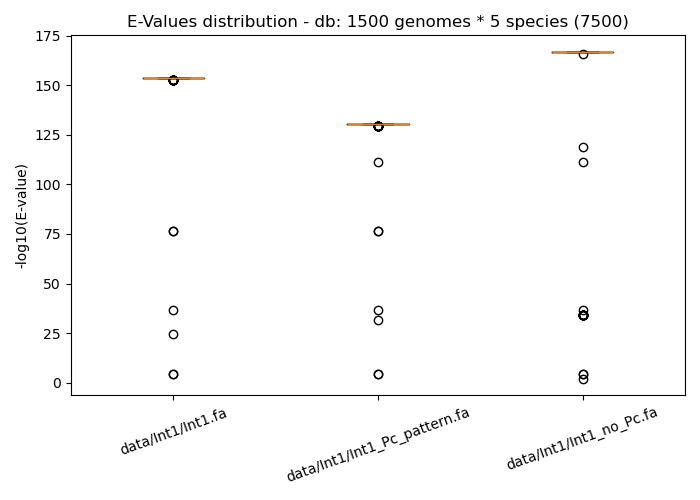
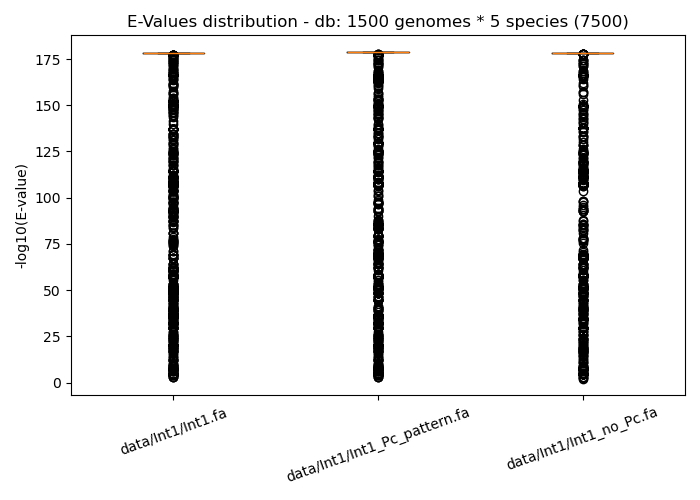
changes

diff --git a/scripts/optimization.py b/scripts/optimization.py
@@ -10,7 +10,7 @@ import matplotlib.pyplot as plt
 
 # --------Definition of functions
 #------------------------ Function to run blastn
-def run_blastn(query, output, db, max_target_evalue_threshold = 10):
+def run_blastn(query, output, db, max_target, evalue_threshold = 10):
     # FIXME FALTA AÑADIR COSAS DE EVALUES YA ARGS ADDED
     """
     Executes the blastn command with the specified query, output file, and database.
@@ -32,7 +32,7 @@ def run_blastn(query, output, db, max_target_evalue_threshold = 10):
     blast_cmd = ["blastn", "-query", query, # Query fasta file
                  "-db", db, # Blast database
                  "-out", output, 
-                 "-max_target_seqs", 
+                 "-max_target_seqs", str(max_target), # Max number of aligned seqs to keep
                  "-evalue", str(evalue_threshold),
                  "-outfmt", "6"] # Output format 6 (tabular)
     start = time.time() # Start time to measure execution time
@@ -235,19 +235,22 @@ if __name__ == "__main__":
                    "data/Int1/Int1_no_Pc.fa"]
     all_results = {}
     all_times = {}
+    num_genomes_each = 1000
     for each_query in fasta_files:
         name = os.path.basename(each_query)
 
         each_result, each_time = run_blastn(query = each_query, 
-                                 output = f"results/1500genomes/blast_{name}.tsv",
-                                 db = "data/1500genomes/db/db")
+                                 output = f"results/{str(num_genomes_each)}genomes/blast_{name}.tsv",
+                                 db = f"data/{str(num_genomes_each)}genomes/db/db",
+                                 max_target=num_genomes_each * 5 * 5) # max num of seqs to keep: size of db * 5
         
         all_results[each_query] = each_result
         all_times[each_query] = each_time
 
 
     dfs, evalues, bitscore, labels = process_tsv(all_results)
-    outdir = "results/plots/1500genomes"
-    plot_evalue(evalues, labels, title = "E-Values distribution - db: 1500 genomes * 5 species (7500)", outdir = outdir)
-    plot_bitscore(bitscore, labels, title = "BitScore distribution - db: 1500 genomes * 5 species (7500)", outdir = outdir)
-    plot_evalue_thresholds(dfs, all_times, title = "E-Values thresholds - db: 1500 genomes * 5 species (7500)", outdir = outdir)
+    outdir = f"results/plots/{str(num_genomes_each)}genomes"
+    general_title = f"- db: {str(num_genomes_each)} genomes * 5 species ({str(num_genomes_each*5)})"
+    plot_evalue(evalues, labels, title = f"E-Values distribution {general_title}", outdir = outdir)
+    plot_bitscore(bitscore, labels, title = f"BitScore distribution {general_title}", outdir = outdir)
+    plot_evalue_thresholds(dfs, all_times, title = f"E-Values thresholds {general_title}", outdir = outdir)

diff --git a/scripts/generate_db.py b/scripts/generate_db.py
@@ -110,22 +110,22 @@ if __name__ == "__main__":
     flags = datasets_flags(assembly_level="complete,chromosome,contig",
                            exclude_atypical=True,
                            mag=False)
-
+    n_genomes = 1000
     # species to download
     names = {"Ecoli" : "Escherichia coli", 
              "Klebsiella" : "Klebsiella pneumoniae",
              "Pseudomonas" : "Pseudomonas aeruginosa",
              "Acinetobacter" : "Acinetobacter baumannii",
              "Enterobacter" : "Enterobacter"}
-    names2 = {"Acinetobacter" : "Acinetobacter baumannii"}
+
         
-    download_species_genomes(species = names2, 
-                   outdir = "data/1500genomes", 
-                   target_num = 1500, 
+    download_species_genomes(species = names, 
+                   outdir = "data/1000genomes", 
+                   target_num = n_genomes, 
                    flags = flags)
 
     
-    generate_multifasta(path_to_genomes = "data/1500genomes/*/*/ncbi_dataset/data/*/*.fna",
-                        outfile = "data/1500genomes/multifasta_genomes.fasta")
-    generate_db(multifasta = "data/1500genomes/multifasta_genomes.fasta",
-                out_db = "data/1500genomes/db/db")
+    generate_multifasta(path_to_genomes = f"data/{str(n_genomes)}genomes/*/*/ncbi_dataset/data/*/*.fna",
+                        outfile = f"data/{str(n_genomes)}genomes/multifasta_genomes.fasta")
+    generate_db(multifasta = f"data/{str(n_genomes)}genomes/multifasta_genomes.fasta",
+                out_db = f"data/{str(n_genomes)}genomes/db/db")
